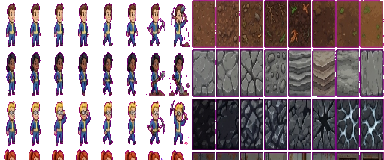
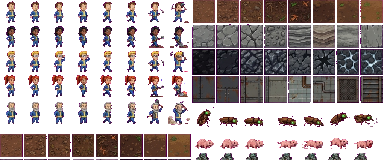
Fix asset squishing and magenta artifacts (v0.0.20)

diff --git a/process_assets.py b/process_assets.py
@@ -1,184 +1,161 @@
 import os
-from PIL import Image, ImageDraw
-import sys
-
-# Increase recursion depth for floodfill
-sys.setrecursionlimit(100000)
+from PIL import Image
+import colorsys
+import math
 
 OUT_DIR = 'public/shelter_war/assets'
 SOURCE_PATH = os.path.join(OUT_DIR, 'source.png')
 EXTRA_PATH = os.path.join(OUT_DIR, 'source_extra.png')
 
-# Expected Grid Dimensions
-# Source 1: 12 cols * 32 = 384px. 13 rows * 32 = 416px.
-TARGET_SIZE_1 = (384, 416)
-# Source 2: 12 cols * 32 = 384px. 7 rows * 32 = 224px.
-TARGET_SIZE_2 = (384, 224)
+# Target Width is fixed (12 cols * 32px = 384px)
+TARGET_WIDTH = 384
 
-def remove_background_floodfill(img, tolerance=40):
-    img = img.convert("RGBA")
-    width, height = img.size
-    pixels = img.load()
+def is_magenta(r, g, b):
+    # Convert to float 0-1
+    rf, gf, bf = r/255.0, g/255.0, b/255.0
+    h, s, v = colorsys.rgb_to_hsv(rf, gf, bf)
     
-    # Start from corners
-    seeds = [(0, 0), (width-1, 0), (0, height-1), (width-1, height-1)]
+    # Magenta Hue is 300 degrees (0.833)
+    # Range: 280-320 degrees -> 0.77 - 0.89
+    # Saturation should be high (> 0.5)
+    # Value should be high (> 0.5)
     
-    # Visited set
-    visited = set()
-    
-    # Queue for BFS
-    queue = []
-    
-    # Validate seeds and add to queue
-    for x, y in seeds:
-        r, g, b, a = pixels[x, y]
-        # Check if seed is "magenta-ish" (R > B, R > G, etc.) or just assume corners are BG
-        # Given the analysis: R=199, G=5, B=200. High R and B, Low G.
-        if r > 150 and b > 150 and g < 100:
-            queue.append((x, y))
-            visited.add((x, y))
-    
-    if not queue:
-        print("Warning: Corners do not look like magenta background. Using color key fallback.")
-        return remove_background_colorkey(img)
-
-    # BFS Flood Fill
-    while queue:
-        x, y = queue.pop(0)
-        r, g, b, a = pixels[x, y]
+    if 0.75 <= h <= 0.92 and s > 0.4 and v > 0.4:
+        return True
         
-        # Set to transparent
-        pixels[x, y] = (0, 0, 0, 0)
+    # Fallback for "white-ish" magenta or dark artifacts
+    # High R, High B, Low G
+    if r > 150 and b > 150 and g < 100:
+        return True
         
-        # Check neighbors
-        for dx, dy in [(-1, 0), (1, 0), (0, -1), (0, 1)]:
-            nx, ny = x + dx, y + dy
-            
-            if 0 <= nx < width and 0 <= ny < height and (nx, ny) not in visited:
-                nr, ng, nb, na = pixels[nx, ny]
-                
-                # Check similarity to current pixel (or base magenta)
-                # Let's check if it's "magenta-ish"
-                # R and B should be high, G low.
-                # Distance from a "pure" magenta or the seed?
-                # Let's use a loose check: High R/B, Low G.
-                
-                is_magenta = (nr > 100 and nb > 100 and ng < 100)
-                
-                if is_magenta:
-                    visited.add((nx, ny))
-                    queue.append((nx, ny))
-                    
-    return img
+    return False
 
-def remove_background_colorkey(img, tolerance=60):
+def remove_background_hsv(img):
     img = img.convert("RGBA")
     datas = img.getdata()
     new_data = []
     
-    # Target: Magenta-ish
-    # Analysis showed R~200-255, B~200-255, G~0-80
-    
+    count = 0
     for item in datas:
         r, g, b, a = item
-        # Check for Magenta range
-        if r > 150 and b > 150 and g < 100:
-             new_data.append((0, 0, 0, 0))
+        if is_magenta(r, g, b):
+            new_data.append((0, 0, 0, 0))
+            count += 1
         else:
-             new_data.append(item)
-             
+            new_data.append(item)
+            
     img.putdata(new_data)
+    print(f"Removed {count} magenta pixels.")
     return img
 
 def crop_to_content(img):
     bbox = img.getbbox()
     if bbox:
+        print(f"Cropping to {bbox}")
         return img.crop(bbox)
     return img
 
-def process_image(path, target_size, output_name_base):
-    if not os.path.exists(path):
-        return None
+def smart_resize(img, target_width):
+    w, h = img.size
+    scale = target_width / w
+    new_h = int(h * scale)
+    print(f"Resizing from {w}x{h} to {target_width}x{new_h} (Scale: {scale:.2f})")
+    return img.resize((target_width, new_h), Image.Resampling.NEAREST)
 
-    print(f"Processing {path}...")
-    img = Image.open(path)
-    
-    # 1. Remove Background
-    # Use color key with broad range since flood fill might be slow/complex in Python without C++
-    # The "massive amounts of magenta" implies my previous key was too strict.
-    clean_img = remove_background_colorkey(img)
-    
-    # 2. Crop to content (remove empty margins)
-    cropped_img = crop_to_content(clean_img)
-    
-    # 3. Resize to Target Grid
-    # Use NEAREST to keep pixel art look
-    final_img = cropped_img.resize(target_size, Image.Resampling.NEAREST)
-    
-    return final_img
+def verify_clean(img, name):
+    # Check for remaining magenta
+    datas = img.getdata()
+    magenta_count = 0
+    for item in datas:
+        if len(item) > 3 and item[3] == 0: continue # Skip transparent
+        r, g, b = item[:3]
+        if is_magenta(r, g, b):
+            magenta_count += 1
+            
+    if magenta_count > 0:
+        print(f"WARNING: {name} still has {magenta_count} magenta pixels!")
+    else:
+        print(f"Verification Passed: {name} is clean.")
 
 def extract(img, name, x, y, w, h):
-    crop = img.crop((x, y, x + w, y + h))
+    # Ensure we don't go out of bounds
+    img_w, img_h = img.size
+    if x + w > img_w or y + h > img_h:
+        print(f"WARNING: Extract {name} out of bounds! Image is {img_w}x{img_h}, trying to get {x},{y} to {x+w},{y+h}")
+        # Pad with transparent if needed? Or just crop what we can.
+        # For now, let's crop what we can.
+        crop = img.crop((x, y, min(x + w, img_w), min(y + h, img_h)))
+    else:
+        crop = img.crop((x, y, x + w, y + h))
+        
+    verify_clean(crop, name)
     crop.save(os.path.join(OUT_DIR, name))
     print(f"Generated {name}")
 
+def process_file(path, name_base):
+    if not os.path.exists(path):
+        return None
+        
+    print(f"--- Processing {name_base} ---")
+    img = Image.open(path)
+    
+    # 1. Remove Background
+    clean_img = remove_background_hsv(img)
+    
+    # 2. Crop
+    cropped_img = crop_to_content(clean_img)
+    
+    # 3. Resize (Width based)
+    final_img = smart_resize(cropped_img, TARGET_WIDTH)
+    
+    return final_img
+
 def main():
     # --- SOURCE 1 ---
-    img1 = process_image(SOURCE_PATH, TARGET_SIZE_1, 'source')
+    img1 = process_file(SOURCE_PATH, 'source')
     
     if img1:
         # 1. Dwellers (Rows 1-5) -> 0-160px
         extract(img1, 'dwellers.png', 0, 0, 384, 160)
         
         # 2. Tiles (Rows 6-9) -> 160-288px
-        # Wait, prompt said Rows 6-9.
-        # Row 6: Dirt (y=160)
-        # Row 7: Rock (y=192)
-        # Row 8: Bedrock (y=224)
-        # Row 9: Wall (y=256)
-        # Total Height: 4 rows * 32 = 128px.
-        extract(img1, 'tiles.png', 0, 160, 384, 128) # Note: Taking full width 384, though prompt said 5 variants (160px). Taking all is safer.
+        extract(img1, 'tiles.png', 0, 160, 384, 128)
         
-        # 3. Enemies (Rows 10-12) -> 288-384px
-        # Row 10: Radroach (y=288)
-        # Row 11: Mole Rat (y=320)
-        # Row 12: Power Armor (y=352)
-        # Height: 3 rows * 32 = 96px.
-        # We will extract this for combining later.
-        
-        # 4. Misc (Row 13) -> 384-416px
+        # 3. Misc (Row 13) -> 384-416px
         # Mr Handy (Cols 1-4 -> 0-128px)
         extract(img1, 'mr_handy.png', 0, 384, 128, 32)
         # UI/Rooms (Cols 5-8 -> 128-256px)
         extract(img1, 'ui.png', 128, 384, 128, 32)
         extract(img1, 'rooms.png', 128, 384, 128, 32)
         
-        # Combat Units (Power Armor - Row 12)
+        # Combat Units (Power Armor - Row 12) -> y=352
         extract(img1, 'combat_units.png', 0, 352, 384, 32)
 
     # --- SOURCE 2 ---
-    img2 = process_image(EXTRA_PATH, TARGET_SIZE_2, 'source_extra')
+    img2 = process_file(EXTRA_PATH, 'source_extra')
     
     # --- COMBINE ENEMIES ---
     print("Combining Enemies...")
-    enemies_w, enemies_h = 384, 256 # Increased height for safety
+    # Target Height: 7 rows (Radroach, Mole Rat, Ghoul, Raider, Psycho, Mutant, Deathclaw) * 32 = 224px
+    enemies_w, enemies_h = 384, 224
     enemies_img = Image.new("RGBA", (enemies_w, enemies_h), (0, 0, 0, 0))
     
     if img1:
         # Source 1 Enemies (Radroach, Mole Rat) - Rows 10, 11
         # y=288. Height 64px.
         s1_enemies = img1.crop((0, 288, 384, 288+64))
-        enemies_img.paste(s1_enemies, (0, 0)) # Row 0-1 in enemies.png
+        enemies_img.paste(s1_enemies, (0, 0)) # Row 0-1
         
     if img2:
         # Source 2 Enemies (Rows 1-5)
         # y=0. Height 160px.
         s2_enemies = img2.crop((0, 0, 384, 160))
-        enemies_img.paste(s2_enemies, (0, 64)) # Row 2-6 in enemies.png
+        enemies_img.paste(s2_enemies, (0, 64)) # Row 2-6
         
         # Pets (Row 6) -> y=160
         extract(img2, 'pets.png', 0, 160, 384, 32)
         
+    verify_clean(enemies_img, 'enemies.png')
     enemies_img.save(os.path.join(OUT_DIR, 'enemies.png'))
     print("Generated enemies.png (Combined)")
 
